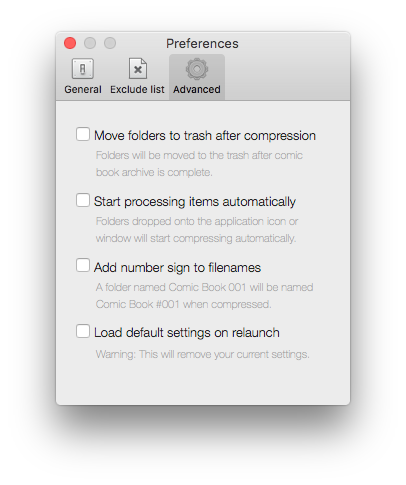
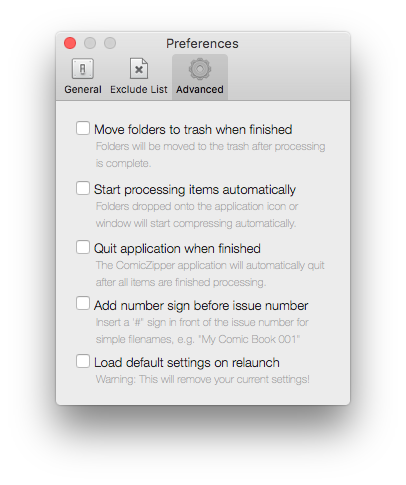
- Updated Help Book to match MenuTweaks - Expanded Settings - Advanced section - Spelling corrections

Changed region(s): [[0.1773, 0.2474, 0.798, 0.8041], [0.2956, 0.1237, 0.5616, 0.2165]]

diff --git a/ComicZipperHelp/_English.lproj/settings-advanced.md b/ComicZipperHelp/_English.lproj/settings-advanced.md
@@ -5,3 +5,25 @@ order: 3
 ---
 
 ![Advanced Settings](settings-advanced.png)
+
+##Move folders to trash when finished
+- Moves original folders to the trash after successful conversion to comic book archive.
+
+
+##Start processing items automatically
+- Dropped items are started automatically without further user input.
+- Works well with Droplet mode.
+
+##Quit application when finished
+- ComicZipper automatically quits when all are items are finished processing.
+- Works well with Droplet mode.
+
+##Add number sign before issue number
+- Adds a '#' sign in front of the issue number for simple filenames, e.g. "My Comic Book 001"
+- Does not parse more complicated names for the issue number.
+- Limited functionality in this release.
+
+##Load default settings on relaunch
+- Deletes the current user settings and restores default settings.
+
+

diff --git a/ComicZipperHelp/_English.lproj/settings-general.md b/ComicZipperHelp/_English.lproj/settings-general.md
@@ -15,7 +15,7 @@ Enable these options (ON by default) to be is notified after all items are finis
 
 ![Notification](notification.png)
 
-##Enable badge notifcations
+##Enable badge notifications
 
 Provides user feedback for remaining items to process via an icon notification badge. The number of remaining items to process is displayed in a red circle on the icon in the dock and application switcher interface.
 
